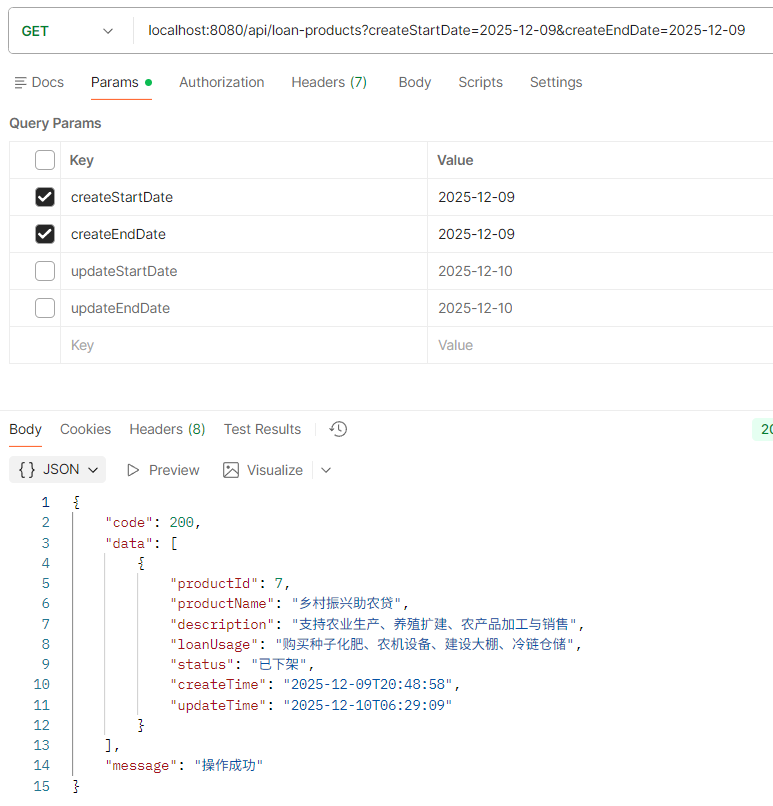
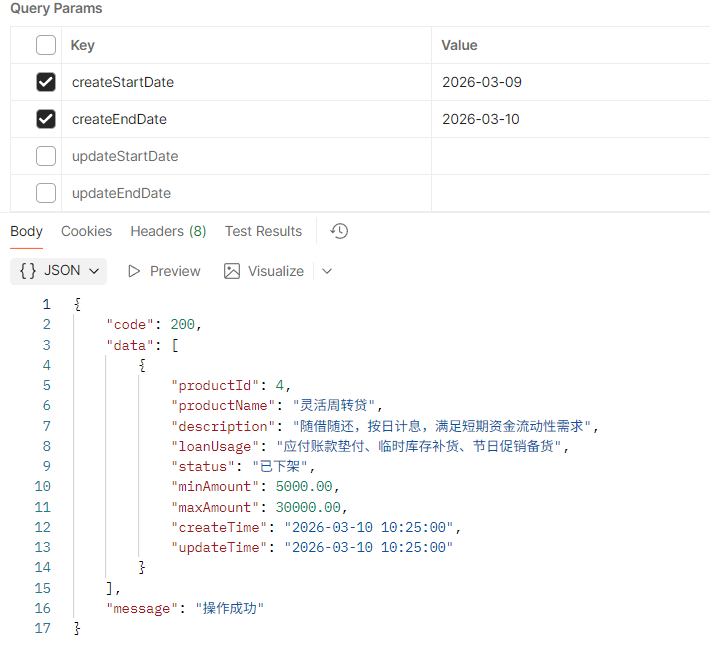
修改产品接口文档
产品金额限制最高和最低额度

diff --git a/project/backend/personal-loan/src/main/java/com/example/personal_loan/mapper/LoanProductMapper.java b/project/backend/personal-loan/src/main/java/com/example/personal_loan/mapper/LoanProductMapper.java
@@ -9,7 +9,6 @@ import org.apache.ibatis.annotations.Mapper;
 import org.apache.ibatis.annotations.Options;
 import org.apache.ibatis.annotations.Param;
 import org.apache.ibatis.annotations.Select;
-import org.apache.ibatis.annotations.Update;
 
 import com.example.personal_loan.dto.ListProductResponse;
 import com.example.personal_loan.entity.LoanProduct;
@@ -97,7 +96,6 @@ public interface LoanProductMapper {
             "min_term as minTerm, " +
             "max_term as maxTerm, " +
             "term_step as termStep, " +
-            "min_amount AS minAmount, " +
             "max_amount AS maxAmount, " +
             "promotion_details as promotionDetails, " +
             "create_time as createTime, " +

diff --git a/project/backend/document/接口文档/loanProduct.md b/project/backend/document/接口文档/loanProduct.md
@@ -21,11 +21,42 @@
     "code": 200,
     "data": [
         {
+            "productId": 2,
+            "productName": "小微经营贷",
+            "description": "助力小微企业发展，快速审批，灵活还款",
+            "loanUsage": "进货周转、设备采购、门店扩张",
+            "promotionDetails": "前2期只还利息",
+            "maxAmount": 50000.00,
+            "terms": [
+                3,
+                6,
+                9,
+                12,
+                15,
+                18,
+                21,
+                24,
+                27,
+                30,
+                33,
+                36
+            ],
+            "options": [
+                {
+                    "optionId": 4,
+                    "interestRate": 0.0650,
+                    "loanPeriod": 12,
+                    "repaidType": "先息后本"
+                }
+            ]
+        },
+        {
             "productId": 1,
             "productName": "优享贷",
             "description": "专为信用良好用户定制，利率优惠，期限灵活",
             "loanUsage": "教育、购车、旅游、大额消费",
             "promotionDetails": "首年利率85折",
+            "maxAmount": 100000.00,
             "terms": [
                 6,
                 12,
@@ -41,59 +72,18 @@
             "options": [
                 {
                     "optionId": 1,
-                    "loanAmount": 30000.00,
                     "interestRate": 0.0390,
                     "loanPeriod": 24,
                     "repaidType": "等额本息"
                 },
                 {
                     "optionId": 2,
-                    "loanAmount": 80000.00,
                     "interestRate": 0.0410,
                     "loanPeriod": 36,
                     "repaidType": "等额本金"
                 },
                 {
                     "optionId": 3,
-                    "loanAmount": 150000.00,
-                    "interestRate": 0.0430,
-                    "loanPeriod": 60,
-                    "repaidType": "等额本息"
-                }
-            ]
-        },
-        {
-            "productId": 2,
-            "productName": "极速贷",
-            "description": "专为信用良好用户定制，利率优惠，期限灵活",
-            "loanUsage": "教育、购车、旅游、大额消费",
-            "promotionDetails": "首年利率85折",
-            "terms": [
-                6,
-                12,
-                18,
-                24,
-                30,
-                36
-            ],
-            "options": [
-                {
-                    "optionId": 4,
-                    "loanAmount": 30000.00,
-                    "interestRate": 0.0390,
-                    "loanPeriod": 24,
-                    "repaidType": "等额本息"
-                },
-                {
-                    "optionId": 5,
-                    "loanAmount": 80000.00,
-                    "interestRate": 0.0410,
-                    "loanPeriod": 36,
-                    "repaidType": "等额本金"
-                },
-                {
-                    "optionId": 6,
-                    "loanAmount": 150000.00,
                     "interestRate": 0.0430,
                     "loanPeriod": 60,
                     "repaidType": "等额本息"
@@ -123,9 +113,9 @@
 
 |字段名|类型|是否必填|说明|示例值|
 |---|---|---|---|---|
-|name|string|是|贷款产品名称|优享贷|
+|name|string|是|贷款产品名称|小微经营贷|
 
-**请求示例（网址）** /api/loan-products/user/search?name=优享贷
+**请求示例（网址）** /api/loan-products/user/search?name=小微经营贷
 
 **返回数据**：
 
@@ -134,44 +124,32 @@
     "code": 200,
     "data": [
         {
-            "productId": 1,
-            "productName": "优享贷",
-            "description": "专为信用良好用户定制，利率优惠，期限灵活",
-            "loanUsage": "教育、购车、旅游、大额消费",
-            "promotionDetails": "首年利率85折",
+            "productId": 2,
+            "productName": "小微经营贷",
+            "description": "助力小微企业发展，快速审批，灵活还款",
+            "loanUsage": "进货周转、设备采购、门店扩张",
+            "promotionDetails": "前2期只还利息",
+            "maxAmount": 50000.00,
             "terms": [
+                3,
                 6,
+                9,
                 12,
+                15,
                 18,
+                21,
                 24,
+                27,
                 30,
-                36,
-                42,
-                48,
-                54,
-                60
+                33,
+                36
             ],
             "options": [
                 {
-                    "optionId": 1,
-                    "loanAmount": 30000.00,
-                    "interestRate": 0.0390,
-                    "loanPeriod": 24,
-                    "repaidType": "等额本息"
-                },
-                {
-                    "optionId": 2,
-                    "loanAmount": 80000.00,
-                    "interestRate": 0.0410,
-                    "loanPeriod": 36,
-                    "repaidType": "等额本金"
-                },
-                {
-                    "optionId": 3,
-                    "loanAmount": 150000.00,
-                    "interestRate": 0.0430,
-                    "loanPeriod": 60,
-                    "repaidType": "等额本息"
+                    "optionId": 4,
+                    "interestRate": 0.0650,
+                    "loanPeriod": 12,
+                    "repaidType": "先息后本"
                 }
             ]
         }
@@ -291,7 +269,7 @@
 
 ![](../loanProductImgs/logCreate.png)
 
-### 为指定产品批量增加选项（待修改）
+### 为指定产品批量增加选项
 
 **网址** /api/loan-products/admin/options/batch-create
 
@@ -308,8 +286,7 @@
 
 |字段名|类型|是否必填|说明|示例值|
 |---|---|---|---|---|
-| loanAmount | number | 是 | 贷款额度（单位：元），最多12位数字，其中小数部分2位 | 20000.00, 50000.00 |
-| loanPeriod | integer | 是 | 贷款期限（单位：月）  | 18，24 |
+|loanPeriod|integer|是|贷款期限（单位：月）|18，24|
 | interestRate | number | 是 | 年化利率，最多6位数字，其中小数部分4位 | 0.055, 0.06 |
 | repaidType | string | 是 | 还款方式 | "等额本金","先息后本" |
 
@@ -320,13 +297,11 @@
   "productId": 2,
   "options": [
     {
-      "loanAmount": 20000.00,
       "interestRate": 0.055,
       "loanPeriod": 18,
       "repaidType": "等额本金"
     },
     {
-      "loanAmount": 50000.00,
       "interestRate": 0.06,
       "loanPeriod": 24,
       "repaidType": "先息后本"
@@ -581,7 +556,6 @@
 |字段名|类型|是否必填|说明|示例值|
 |---|---|---|---|---|
 | id  | integer | 是 | 该产品需要更改的选项id | 2 |
-| loanAmount | number | 否 | 贷款额度（单位：元）,最多12位数字，其中小数部分2位|   |
 | loanPeriod |integer | 否 | 贷款期限（单位：月）|   |
 | interestRate | number | 否 | 年化利率,最多6位数字，其中小数部分4位 | 0.045  |
 | repaidType | string | 否 | 还款方式，"等额本金"、"等额本息"、"一次性还本付息" |  |
@@ -678,49 +652,26 @@
     "code": 200,
     "data": [
         {
-            "productId": 9,
-            "productName": "学子启航贷",
-            "description": "支持青年创业与技能提升，低门槛申请",
-            "loanUsage": "技能培训、创业启动、留学准备、电脑设备购置",
+            "productId": 4,
+            "productName": "灵活周转贷",
+            "description": "随借随还，按日计息，满足短期资金流动性需求",
+            "loanUsage": "应付账款垫付、临时库存补货、节日促销备货",
             "status": "已下架",
-            "createTime": "2025-12-10T14:26:22",
-            "updateTime": "2025-12-10T14:26:22"
-        },
-        {
-            "productId": 8,
-            "productName": "绿色生活贷",
-            "description": "鼓励购买新能源车、节能家电、安装光伏设备等绿色消费",
-            "loanUsage": "新能源电动车、节能空调、太阳能热水器、垃圾分类设备",
-            "status": "已下架",
-            "createTime": "2025-12-10T14:25:17",
-            "updateTime": "2025-12-10T06:29:09"
-        },
-        {
-            "productId": 7,
-            "productName": "乡村振兴助农贷",
-            "description": "支持农业生产、养殖扩建、农产品加工与销售",
-            "loanUsage": "购买种子化肥、农机设备、建设大棚、冷链仓储",
-            "status": "已下架",
-            "createTime": "2025-12-09T20:48:58",
-            "updateTime": "2025-12-10T06:29:09"
-        },
-        {
-            "productId": 2,
-            "productName": "小微经营贷",
-            "description": "助力小微企业发展，快速审批，灵活还款",
-            "loanUsage": "进货周转、设备采购、门店扩张",
-            "status": "上架中",
-            "createTime": "2025-12-05T09:46:05",
-            "updateTime": "2025-12-10T06:29:09"
+            "minAmount": 5000.00,
+            "maxAmount": 30000.00,
+            "createTime": "2026-03-10 10:25:00",
+            "updateTime": "2026-03-10 10:25:00"
         },
         {
             "productId": 1,
-            "productName": "优享贷 Pro",
+            "productName": "优享贷",
             "description": "专为信用良好用户定制，利率优惠，期限灵活",
             "loanUsage": "教育、购车、旅游、大额消费",
             "status": "上架中",
-            "createTime": "2025-12-02T09:40:40",
-            "updateTime": "2025-12-10T06:29:09"
+            "minAmount": 3000.00,
+            "maxAmount": 100000.00,
+            "createTime": "2026-03-03 15:49:04",
+            "updateTime": "2026-03-10 09:44:35"
         }
     ],
     "message": "操作成功"
@@ -758,7 +709,7 @@
         "productId": 1,
         "productName": "优享贷",
         "description": "专为信用良好用户定制，利率优惠，期限灵活",
-        "usage": "教育、购车、旅游、大额消费",
+        "loanUsage": "教育、购车、旅游、大额消费",
         "terms": [
             6,
             12,
@@ -771,40 +722,30 @@
             54,
             60
         ],
+        "minAmount": 3000.00,
+        "maxAmount": 100000.00,
         "promotionDetails": "首年利率85折",
-        "status": "INACTIVE",
-        "createTime": "2025-11-21T13:22:05",
-        "updateTime": "2025-12-01T13:26:08",
+        "status": "上架中",
+        "createTime": "2026-03-03 15:49:04",
+        "updateTime": "2026-03-10 09:44:35",
         "options": [
             {
                 "optionId": 1,
                 "productId": 1,
                 "loanPeriod": 24,
-                "loanAmount": 30000.00,
                 "interestRate": 0.0390,
                 "repaidType": "等额本息",
-                "createTime": "2025-11-21T13:22:05",
-                "updateTime": "2025-11-21T13:22:05"
+                "createTime": "2026-03-03 15:49:04",
+                "updateTime": "2026-03-03 15:49:04"
             },
             {
                 "optionId": 2,
                 "productId": 1,
                 "loanPeriod": 36,
-                "loanAmount": 80000.00,
                 "interestRate": 0.0410,
                 "repaidType": "等额本金",
-                "createTime": "2025-11-21T13:22:05",
-                "updateTime": "2025-11-21T13:22:05"
-            },
-            {
-                "optionId": 3,
-                "productId": 1,
-                "loanPeriod": 60,
-                "loanAmount": 150000.00,
-                "interestRate": 0.0430,
-                "repaidType": "等额本息",
-                "createTime": "2025-11-21T13:22:05",
-                "updateTime": "2025-11-21T13:22:05"
+                "createTime": "2026-03-03 15:49:04",
+                "updateTime": "2026-03-03 15:49:04"
             }
         ]
     },
@@ -835,7 +776,7 @@
 | updateStartDate   | String | 否 | 更新开始日期，格式yyyy-mm-dd | 2025-12-10                 |
 | updateEndDate    | String | 否 | 更新结束日期，格式yyyy-mm-dd | 2025-12-10                 |
 
-**请求示例（网址）**  localhost:8080/api/loan-products?createStartDate=2025-12-09&createEndDate=2025-12-09
+**请求示例（网址）**  localhost:8080/api/loan-products?createStartDate=2026-03-09&createEndDate=2026-03-10
 
 **返回数据**
 
@@ -844,13 +785,15 @@
     "code": 200,
     "data": [
         {
-            "productId": 7,
-            "productName": "乡村振兴助农贷",
-            "description": "支持农业生产、养殖扩建、农产品加工与销售",
-            "loanUsage": "购买种子化肥、农机设备、建设大棚、冷链仓储",
+            "productId": 4,
+            "productName": "灵活周转贷",
+            "description": "随借随还，按日计息，满足短期资金流动性需求",
+            "loanUsage": "应付账款垫付、临时库存补货、节日促销备货",
             "status": "已下架",
-            "createTime": "2025-12-09T20:48:58",
-            "updateTime": "2025-12-10T06:29:09"
+            "minAmount": 5000.00,
+            "maxAmount": 30000.00,
+            "createTime": "2026-03-10 10:25:00",
+            "updateTime": "2026-03-10 10:25:00"
         }
     ],
     "message": "操作成功"
